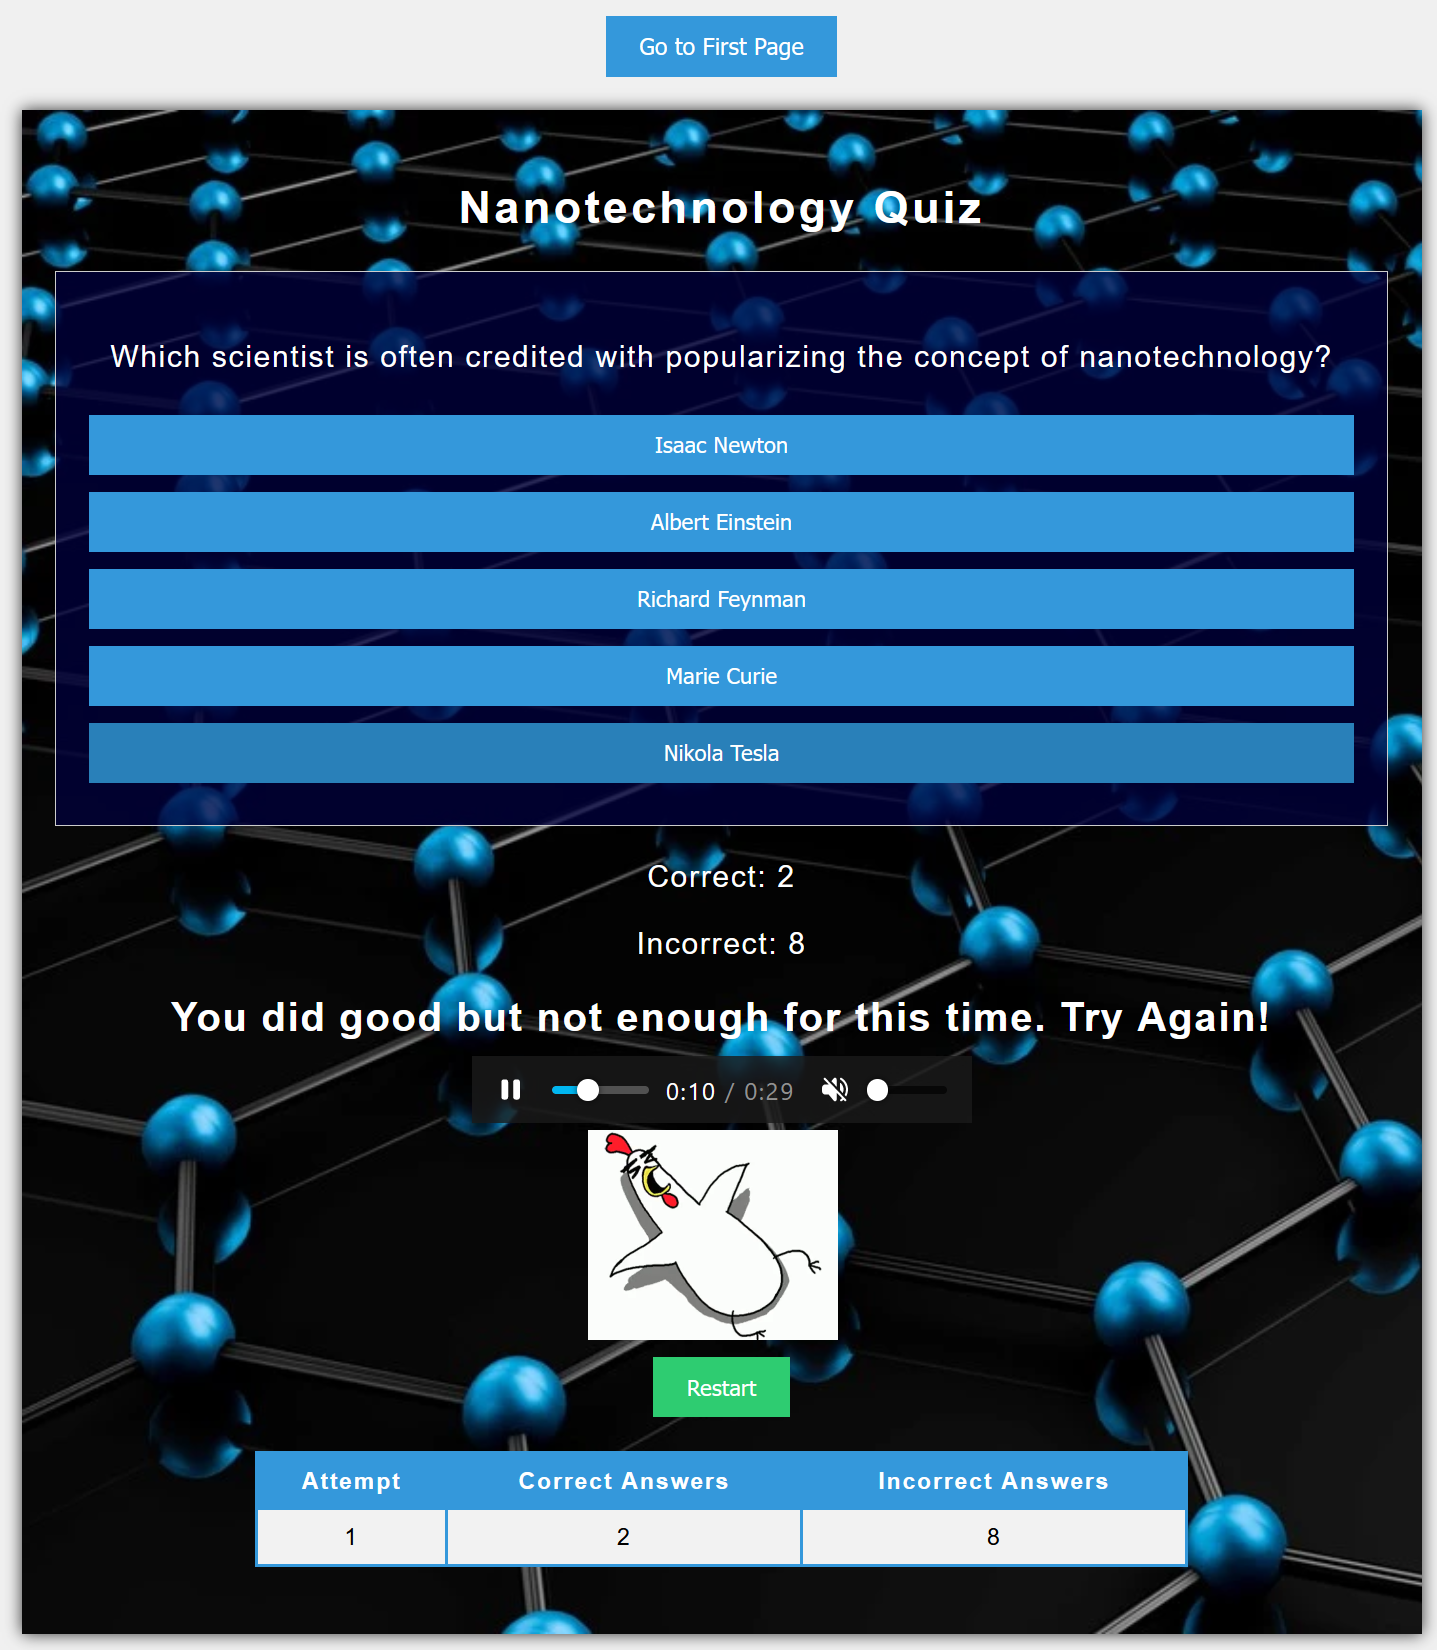
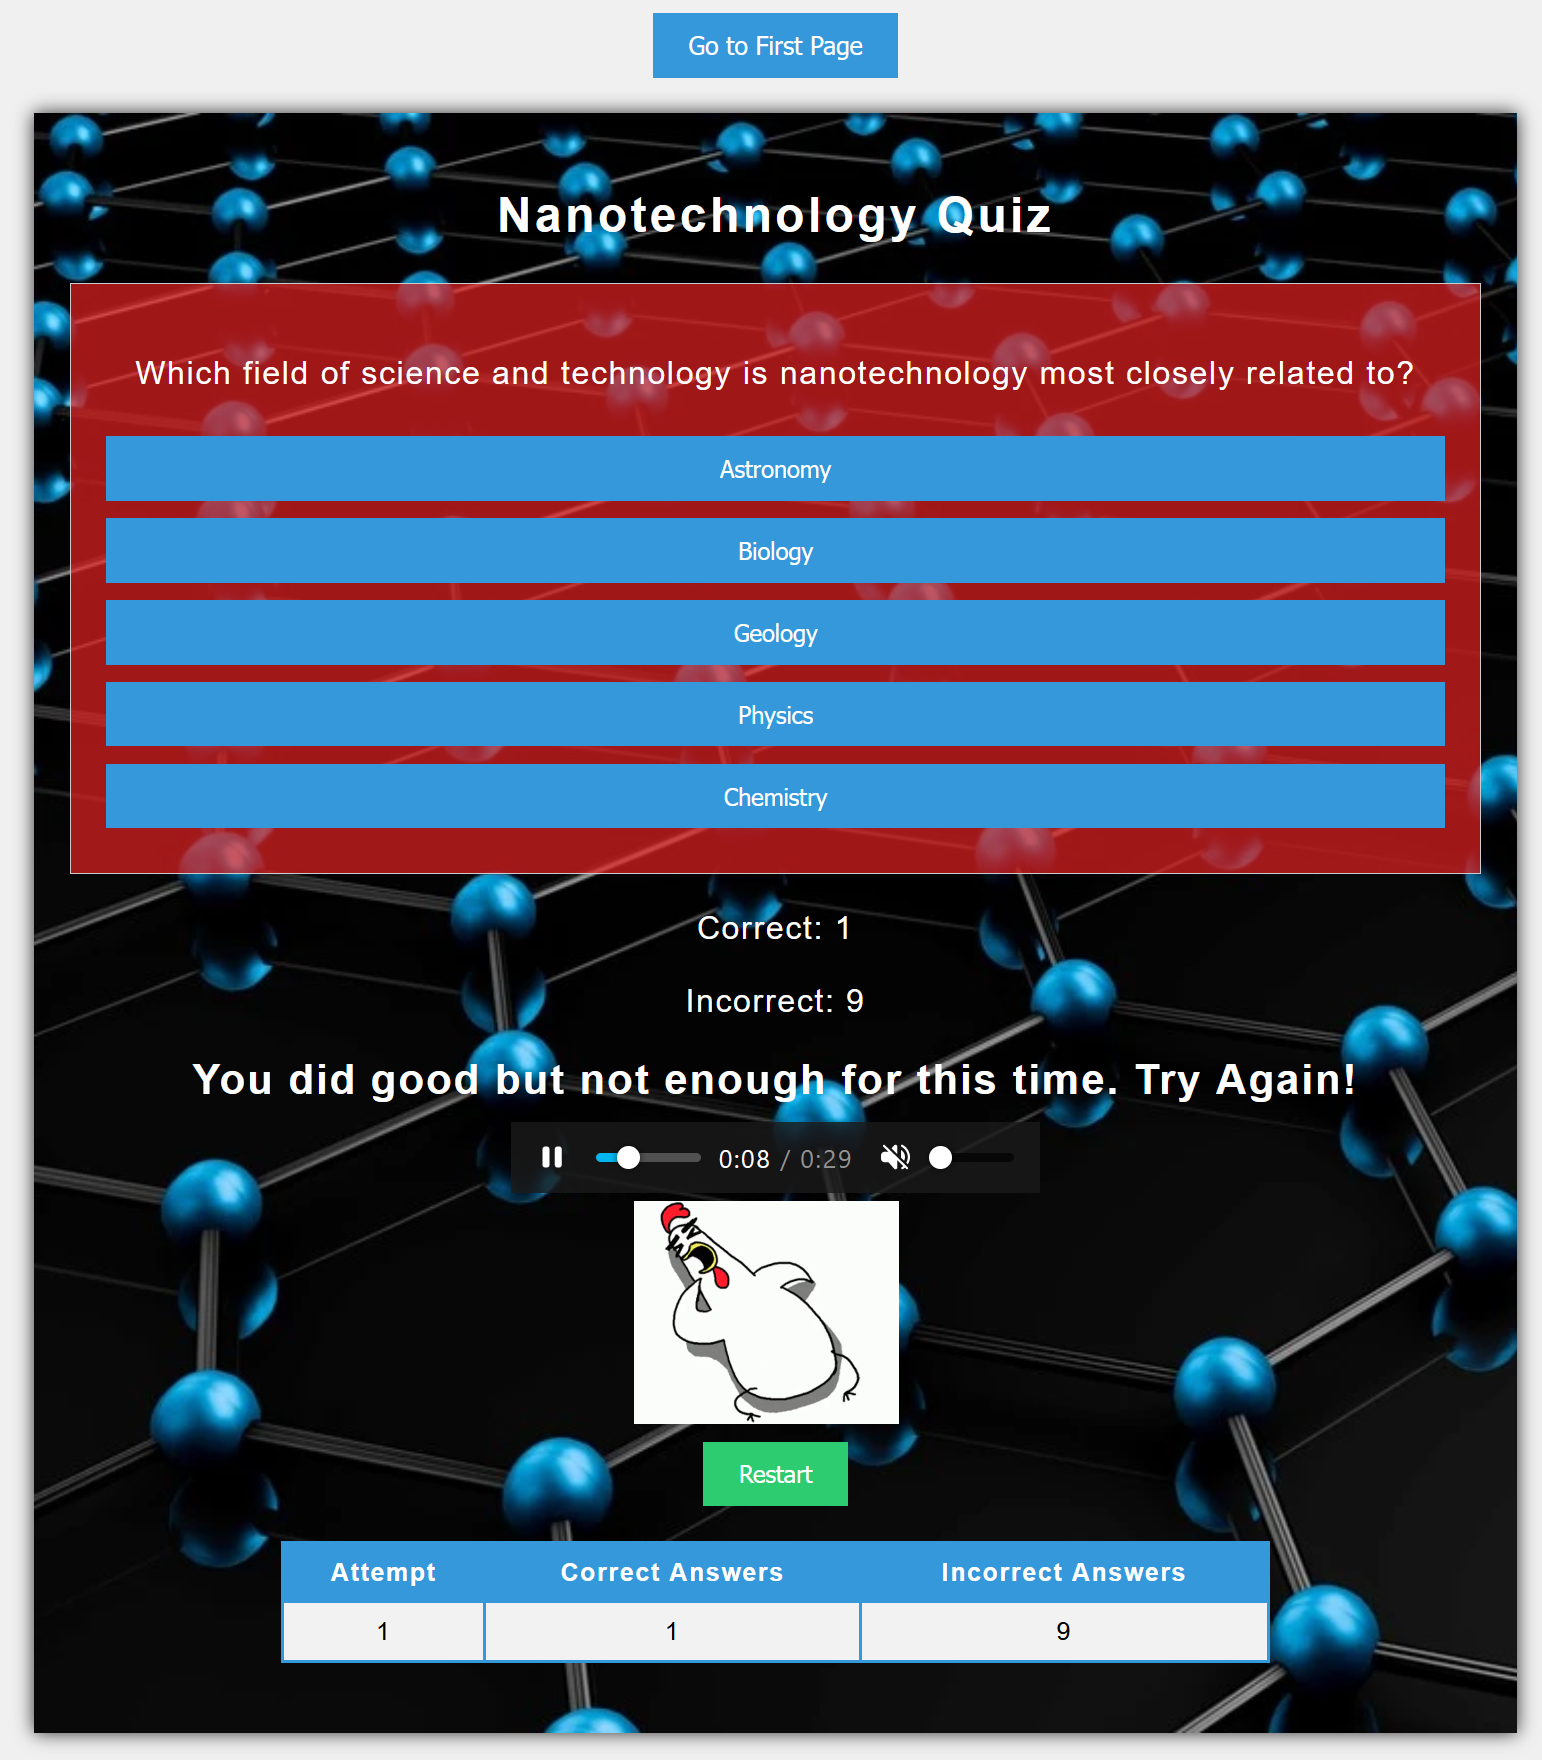
update readme file

diff --git a/README.md b/README.md
@@ -21,7 +21,7 @@ The live link can be found here - <https://teman67.github.io/Project_2/index.htm
   - At the top of the Quiz page there is a button that user can go back to the welcome page.
   - Here, the questions are displayed and a user can select the correct answer from 5 available options.
   - If the user select the correct answer then the Correct score increases otherwise the Incorrect score increases.
-  - When the user answers to 10 questions, if they answer to at least 6 questions correctly, then a happy song plays and a happy chicken dances. While, if the user cannot win the quiz a sad song plays and a sad chicken shows at the bottom of the page.
+  - When the user answers to 10 questions, if they answer to at least 6 questions correctly, then a happy song plays,a happy chicken dances and the background color changes to green. While, if the user cannot win the quiz a sad song plays, a sad chicken shows at the bottom of the page and the background color changes to red.
   - The song is muted and the user can unmute the song.
   - A table is also displayed after each participation and the user can track his/her scores.
   - Each time that the user Restart the quiz, the questions are suffled.
